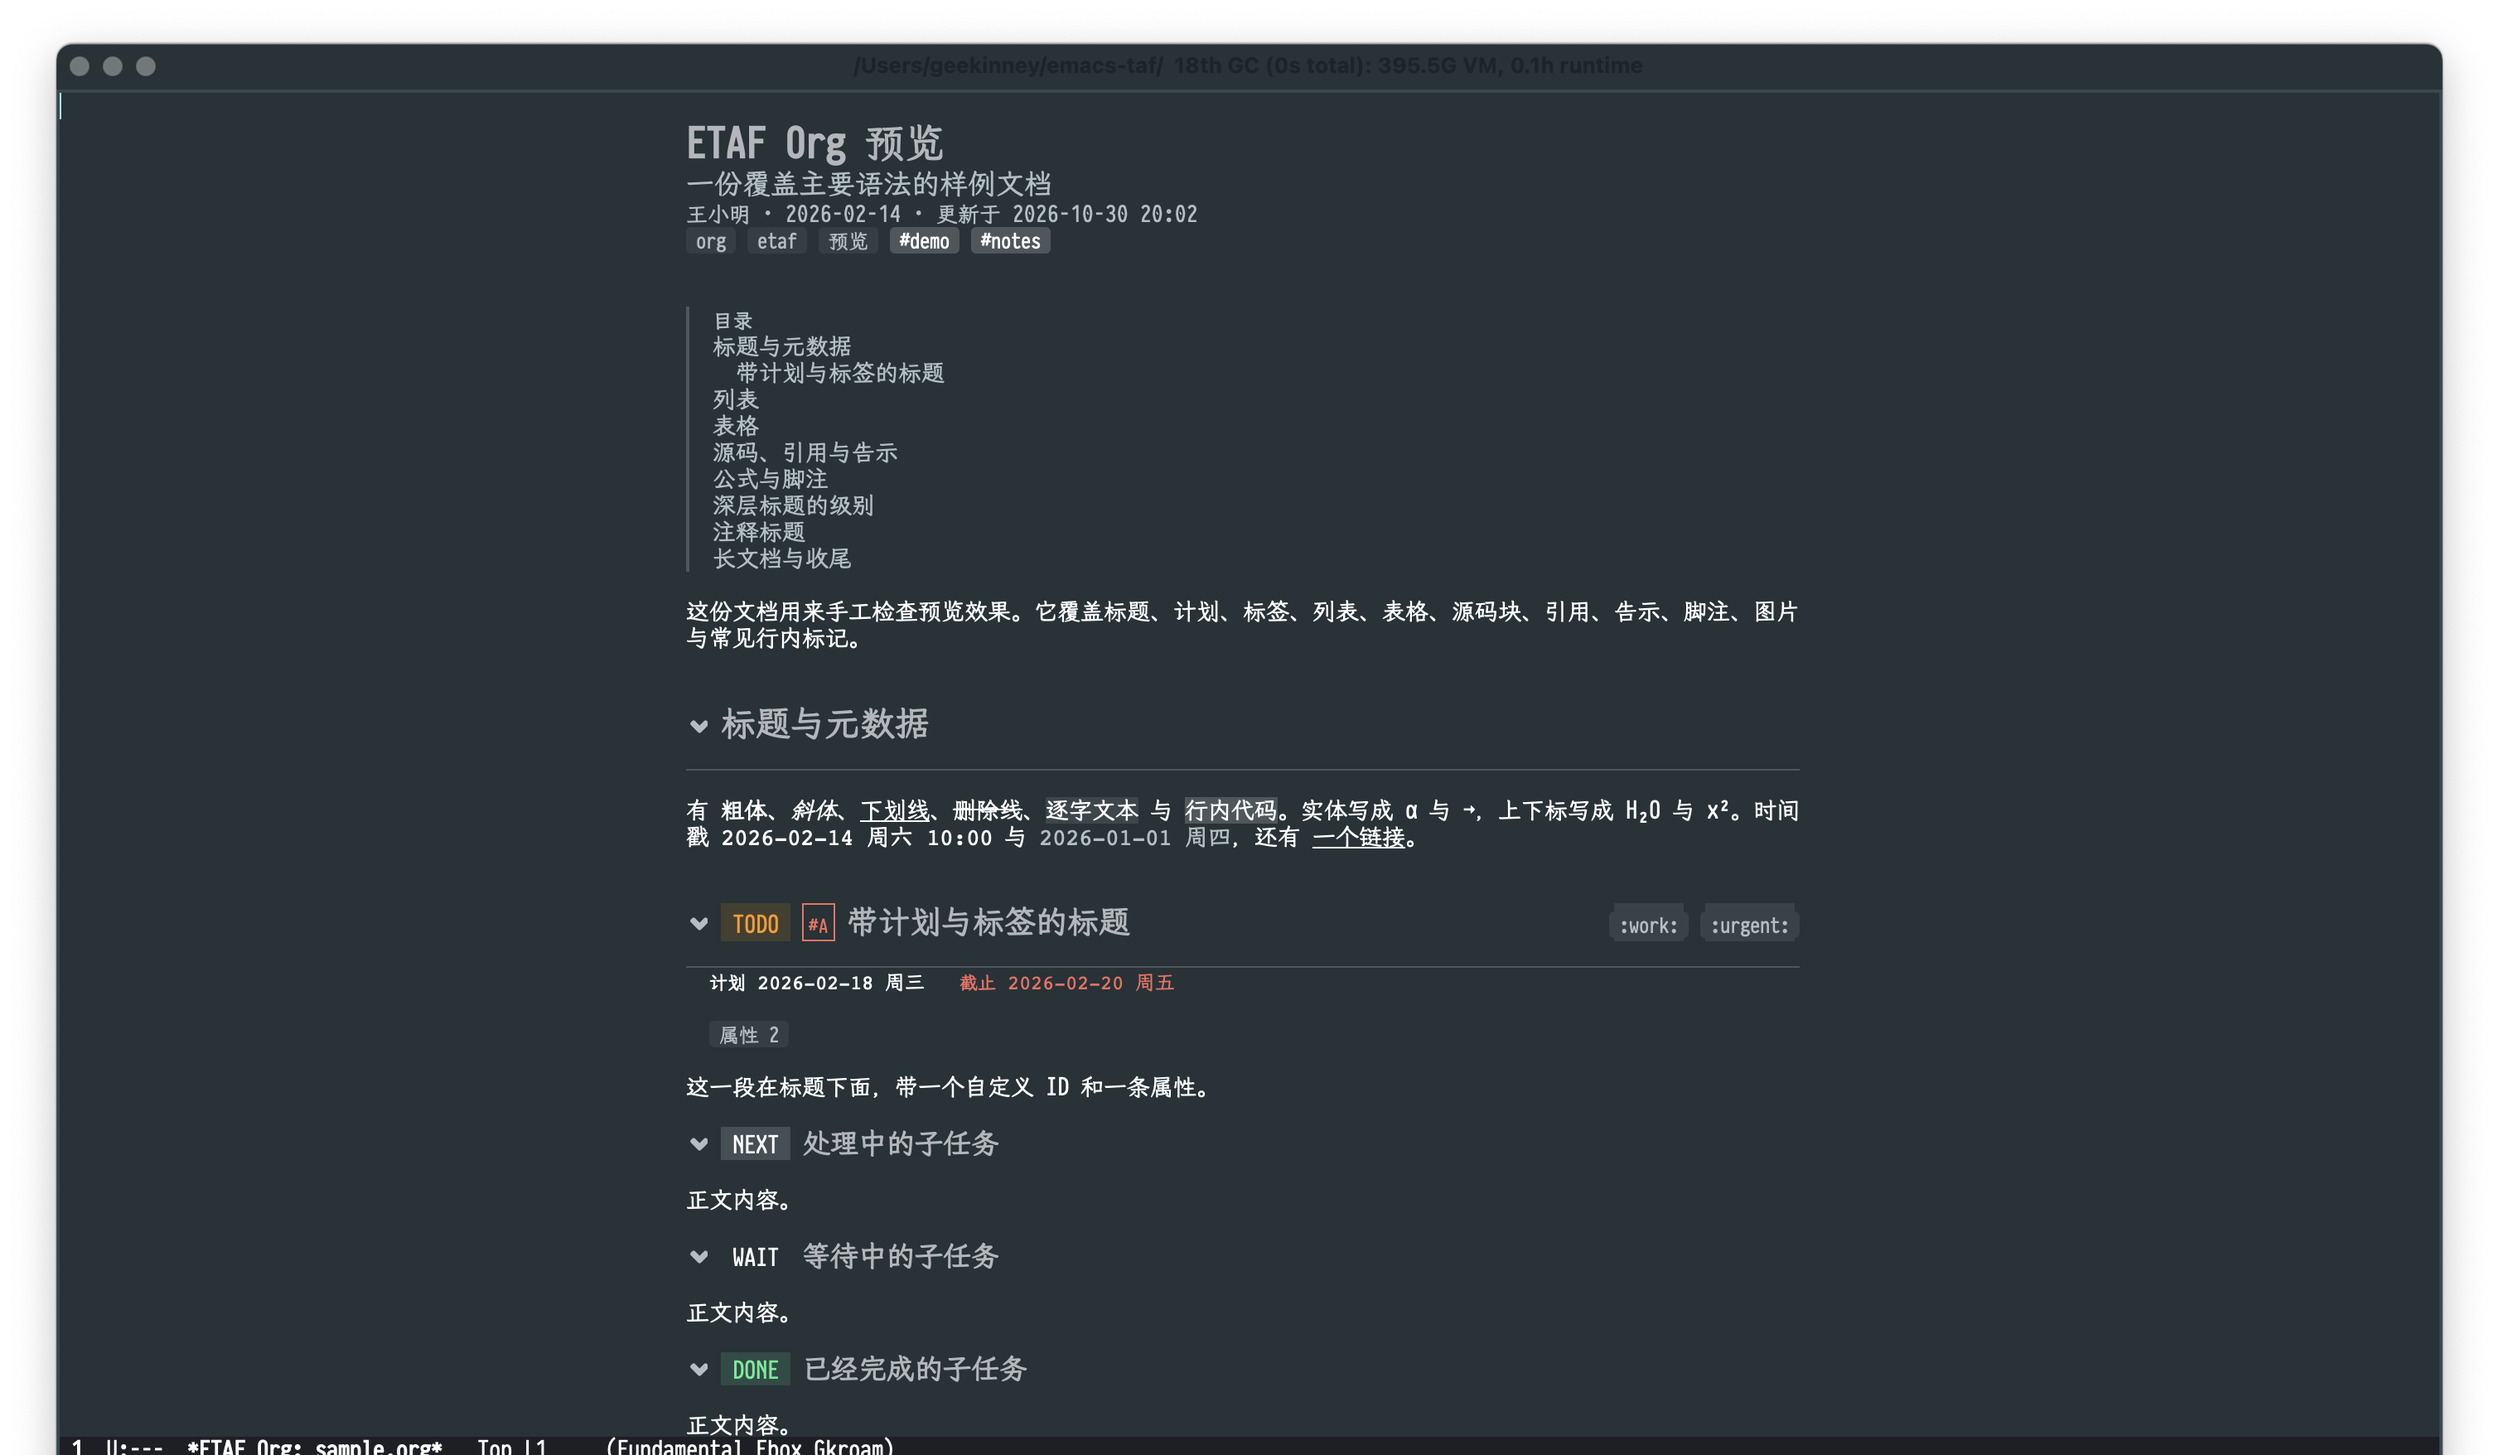
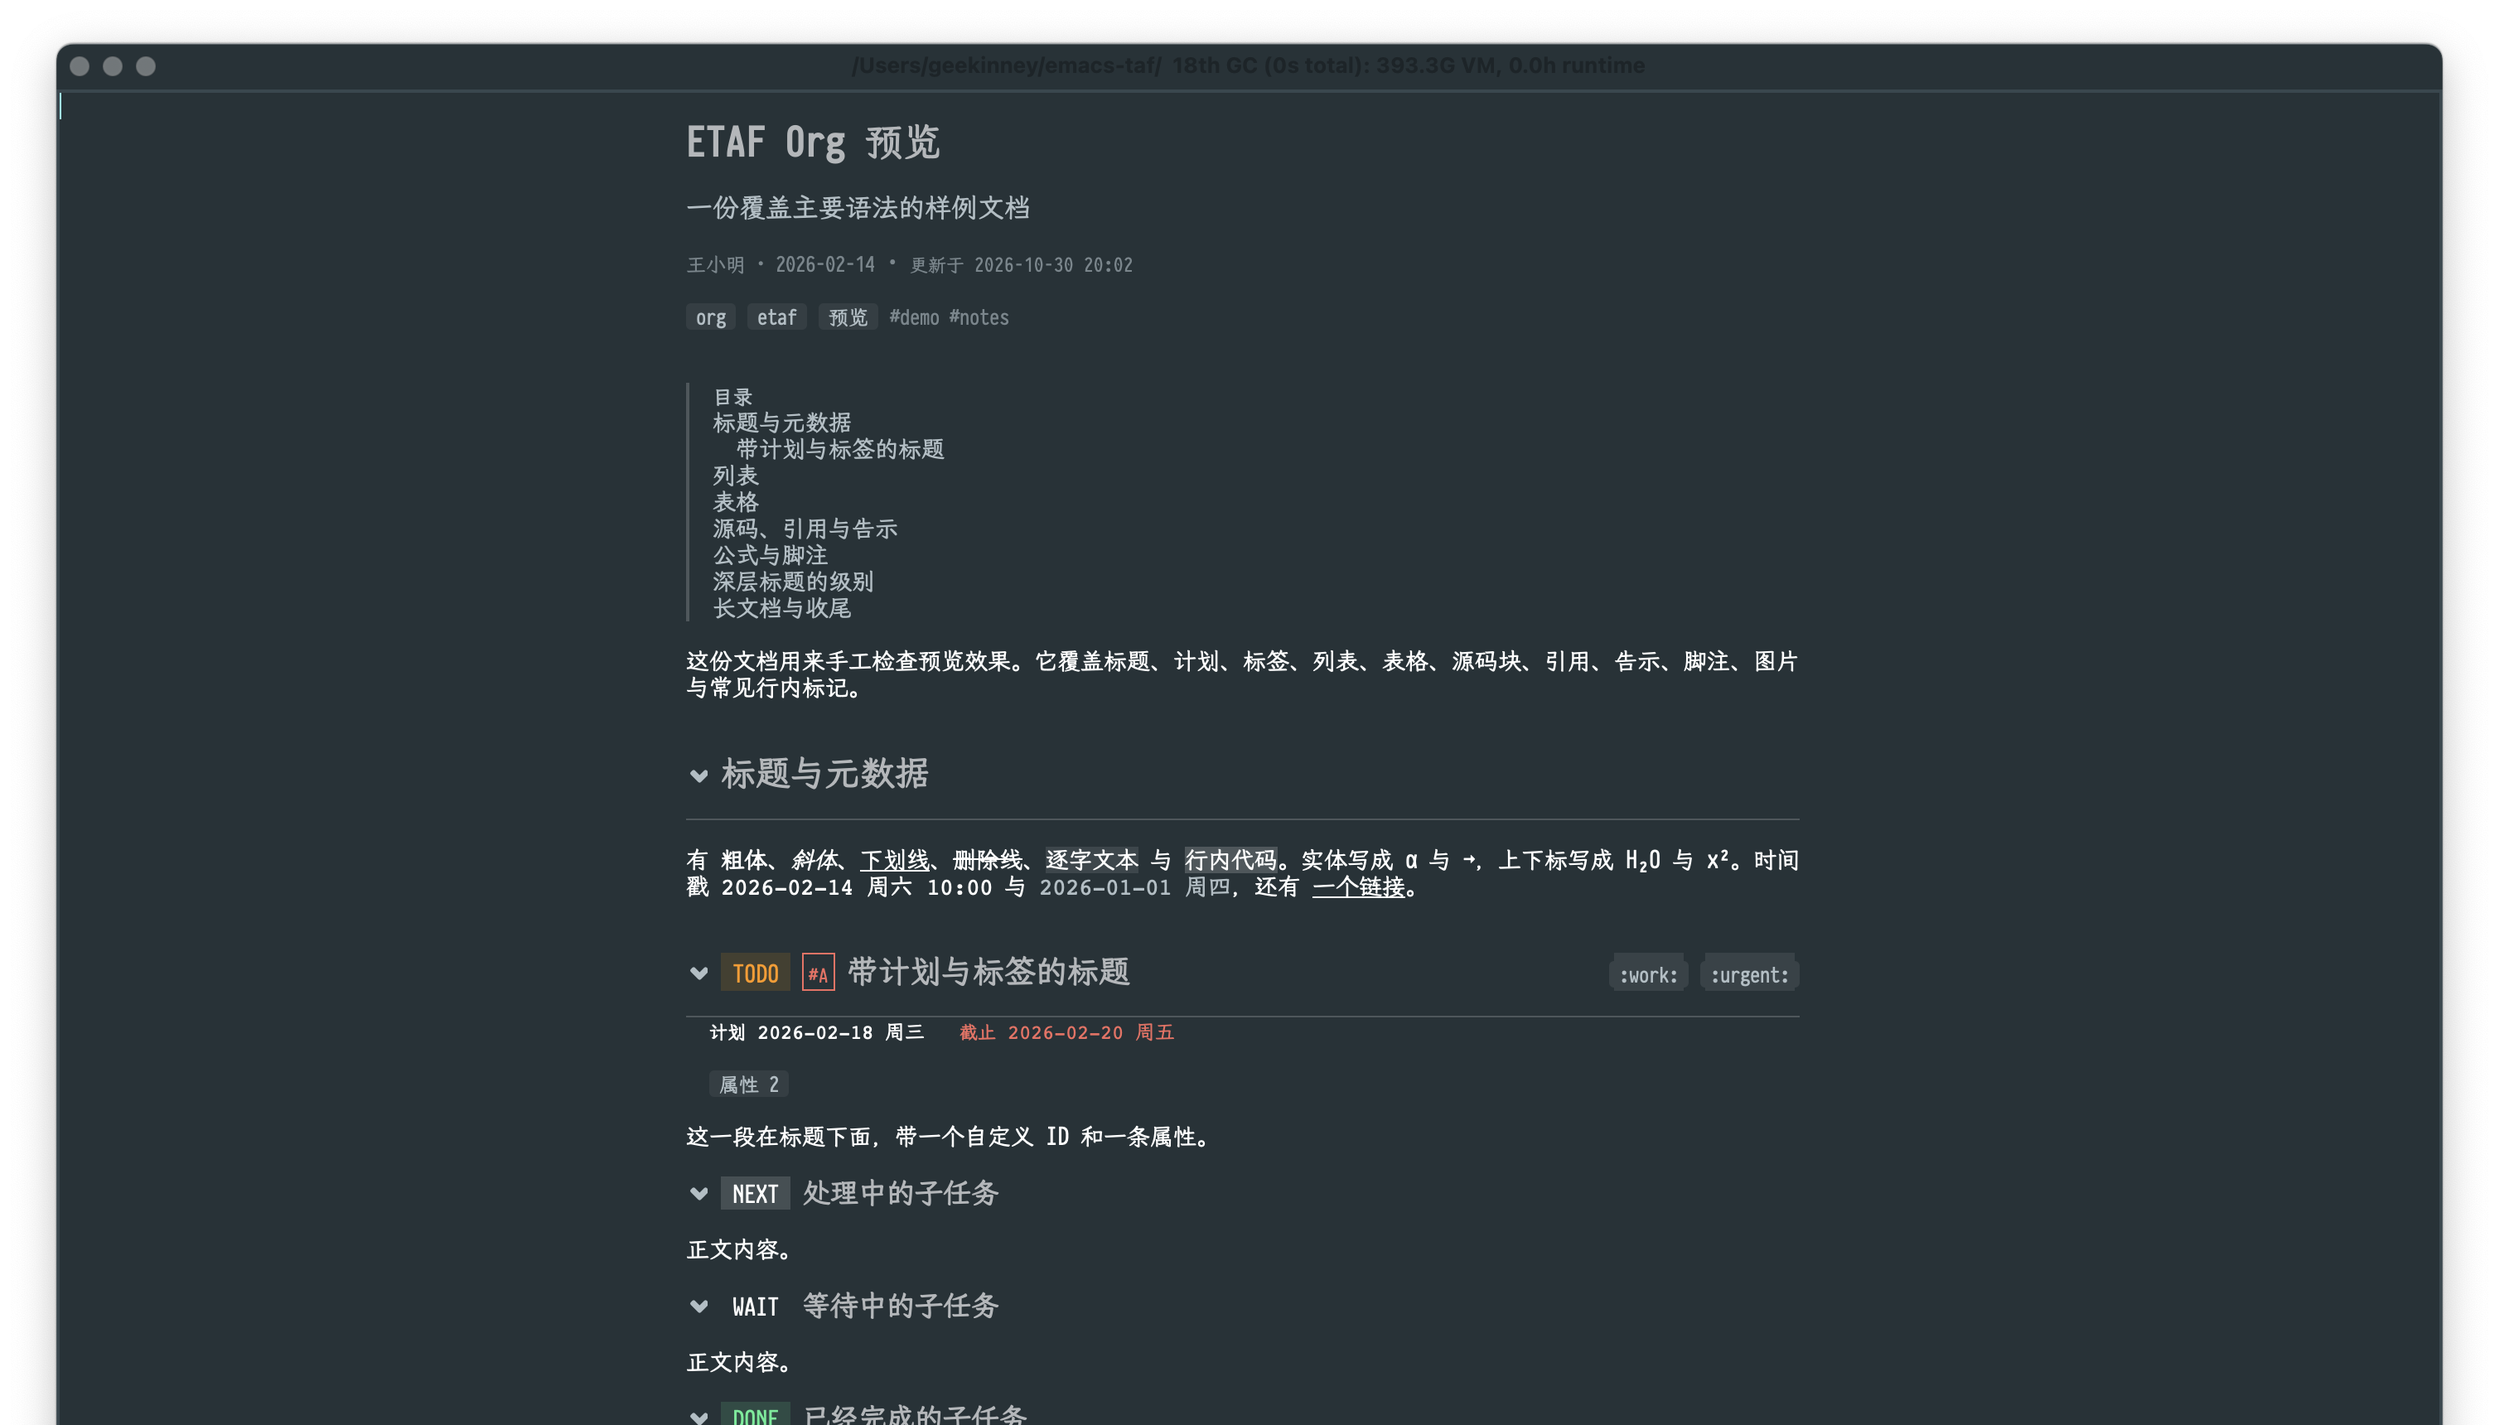
docs: refresh the baseline numbers and the README capture
Three benchmark runs on the 120-section document now report a parse of 27 ms,
a full mount of 354 ms, an outline mount of 120 ms, a fold of 0.7 ms and a
refresh of 87 ms; the manual and the architecture table carried the older
292/90/110 figures.

The README image predates the title-block spacing, the table grid and the
heading fixes, so it is captured again at 205x52.

Validation: make check (38 scenarios); the capture shows the current hero,
contents rail, keyword and priority chips, planning line and phase divider.

diff --git a/docs/architecture.md b/docs/architecture.md
@@ -179,10 +179,10 @@ rendered lines, 900×50 viewport), Emacs 31, Apple silicon:
 | Path | Time |
 | --- | --- |
 | Parse | 27 ms |
-| Mount, every section open | 292 ms |
-| Mount, `overview` (headlines only) | 90 ms |
-| Fold one section and flush | 0.6 ms |
-| Refresh and reparse | 110 ms |
+| Mount, every section open | 354 ms |
+| Mount, `overview` (headlines only) | 120 ms |
+| Fold one section and flush | 0.7 ms |
+| Refresh and reparse | 87 ms |
 
 The outline mount is the number that matters for large files: mounting only
 headlines costs about a third of the fully expanded tree, and each expanded

diff --git a/docs/manual.md b/docs/manual.md
@@ -62,7 +62,7 @@ outline and the full view.
 Folding is structural. A closed section is not rendered, so its images are
 not prepared, its tables are not measured and its blocks are not mounted.
 That is what keeps a large file fast: a 120-section document mounts in about
-90 ms as an outline and about 290 ms fully expanded.
+120 ms as an outline and about 350 ms fully expanded.
 
 A document opened from a file follows that file. Saving the source, or
 changing it on disk, repaints after the write settles (250 ms) and keeps the
